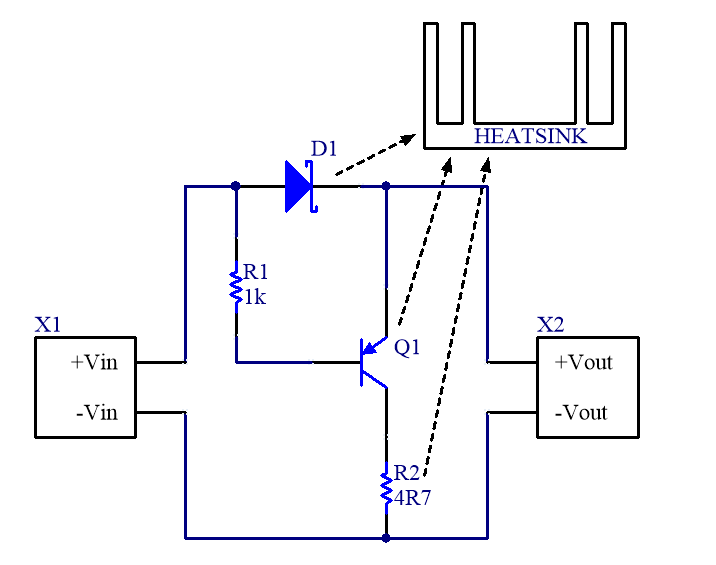
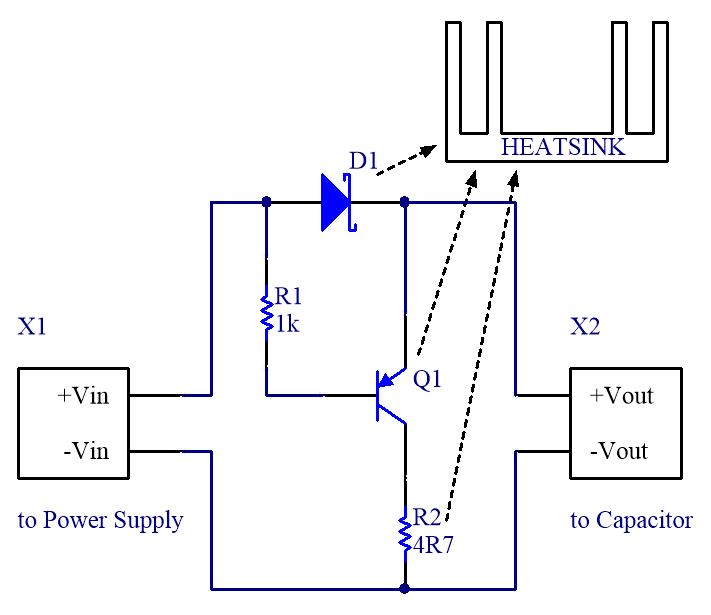
[*]

Changed region(s): [[0.0, 0.0301, 0.9592, 0.9628], [0.8045, 0.8124, 0.9902, 0.8726], [0.8045, 0.5115, 0.8664, 0.5416]]

diff --git a/c/doc-src/doc.c b/c/doc-src/doc.c
@@ -39,11 +39,11 @@
  * 
  * The configuration of the servo box solution (e.g., how many eaters and capacitors it uses) and the electrical connection diagram depend on whether your intention is:
  * - to connect a single servo, in which case the configuration and the connection diagram are as below:
- * @image html "single_servo_conn.png" width=800
- * @image latex "single_servo_conn.png" "Connecting single RDrive servo to power supply" width=300pt
+ * @image html "single_servo_conn_1.png" width=800
+ * @image latex "single_servo_conn_1.png" "Connecting single RDrive servo to power supply" width=300pt
  * - to connect multiple servos, in which case the configuration and the connection diagram are as below:
- * @image html "multiple_servo_conn.png" width=800
- * @image latex "multiple_servo_conn.png" "Connecting multiple RDrive servos to power supply" width=300pt
+ * @image html "multiple_servo_conn_1.png" width=800
+ * @image latex "multiple_servo_conn_1.png" "Connecting multiple RDrive servos to power supply" width=300pt
  * 
  * In any case, make sure to meet the following electrical connection requirements:
  * - Typically, the total circuit length from the power supply to any servo motor must not exceed 10 meters.
@@ -91,8 +91,10 @@
  * |---------|-----|-----------|-------|
  * |D1 - Diode|APT30S20BG|Schottky diode, I<SUB>f</SUB> &ge; 20 A, V<SUB>r</SUB> &ge; 96 V|I<SUB>f</SUB> &ge; 1.5 × Total current of all connected servos|
  * |Q1 - Transistor|TIP147|PNP darlington transistor, V<SUB>ce</SUB> &ge; 96V, I<SUB>c</SUB> &ge; 10 A| |
- * |R1 - Resistor 1|1K Ohm, 1 W| | |
- * |R2 - Resistor 1|4.7 Ohm, P<SUB>d</SUB> &ge; 25 W| | |
+ * |R1 - Resistor|1K Ohm, 1 W| | |
+ * |R2 - Resistor|4.7 Ohm, P<SUB>d</SUB> &ge; 25 W| | |
+ * |X1 - Connector| | |Input connector (power source - power supply) |
+ * |X2 - Connector| | |Output connector (power consumer - capacitor module & servo) |
  * 
  * <b>Note:</b> D1, Q1, and R2 should be connected to an appropriate heatsink. The maximum dissipated power of the heatsink should be equal to the maximum dynamic braking energy in your circuit.   
  * When the power to dissipate is too high (dynamic braking power is more than 50 W), it also is essential to provide active cooling, such as a fan.
@@ -107,6 +109,8 @@
  * <b>Requirements:</b>
  * |Component|Type|Comment|
  * |---------|-----|-------|
+ * |X1 - Connector| |Input connector (power source) |
+ * |X2 - Connector| |Output connector (power consumer - servo) |
  * |C1...Cn|Aluminum electrolytic capacitor or tantalum/polymer capacitor, U &ge; 80 V, ESR &le; 0.1 Ohm|Total capacitance should be &ge; 5 uF per 1 W of connected servo|
  * 
  * 
